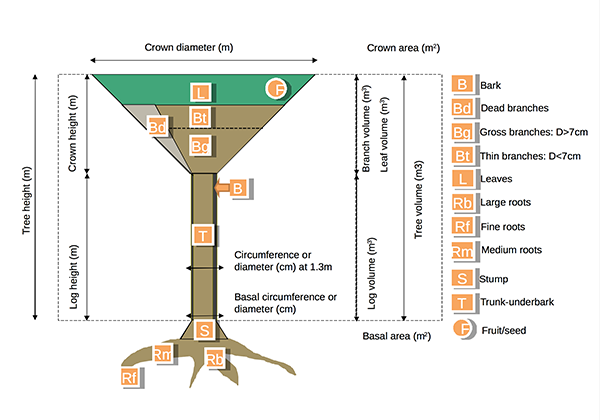
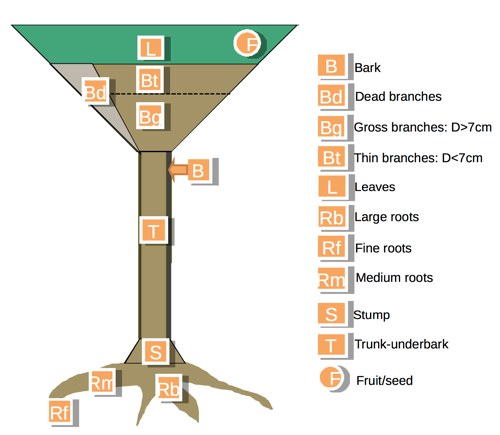
changes to components image to add in legend

Changed region(s): [[0.03, 0.031, 0.99, 0.9905], [0.03, 0.1857, 0.06, 0.7429]]

diff --git a/apps/data/templates/data/template.tree_equation.html b/apps/data/templates/data/template.tree_equation.html
@@ -78,7 +78,7 @@
 
 {% block content %}
     <div id="page_2">
-        <div style="float:right;"><a href="pdf">Download equation PDF</a></div>
+        <div style="float:right;"><a href="pdf"><img src="/media/images/pdficon.png" /> Download equation as PDF</a></div>
         <div class="page-header">
             <h3>Equation {{ tree_equation.ID }}</h3>
         </div>
@@ -138,7 +138,7 @@
                         </tr>
                     </table>
                     <div style="width:600px;padding:20px">
-                        <img src="/media/images/components.jpg" width="600" />
+                        <img src="/media/images/components.png" width="500" />
                     </div>
                 </div>
                 <div class="tab-pane" id="input_Output">

diff --git a/apps/data/templates/data/template.search.html b/apps/data/templates/data/template.search.html
@@ -296,7 +296,7 @@
                             </div>
                         </div>
                         <div style="float:left;width:600px;padding:20px">
-                            <img src="/media/images/components.jpg" width="600" />
+                            <img src="/media/images/components.png" width="500" />
                         </div>
 
 

diff --git a/apps/data/templates/data/template.tree_equation.pdf.html b/apps/data/templates/data/template.tree_equation.pdf.html
@@ -81,7 +81,7 @@
             <td style="font-weight:normal">
                 {{ tree_equation.components_string }}
                 <br />
-                <img src="media/images/components.jpg" width="150" alt=""></img>
+                <img src="media/images/components.jpg" width="200" alt=""></img>
             </td>
         </tr>
     </table>
